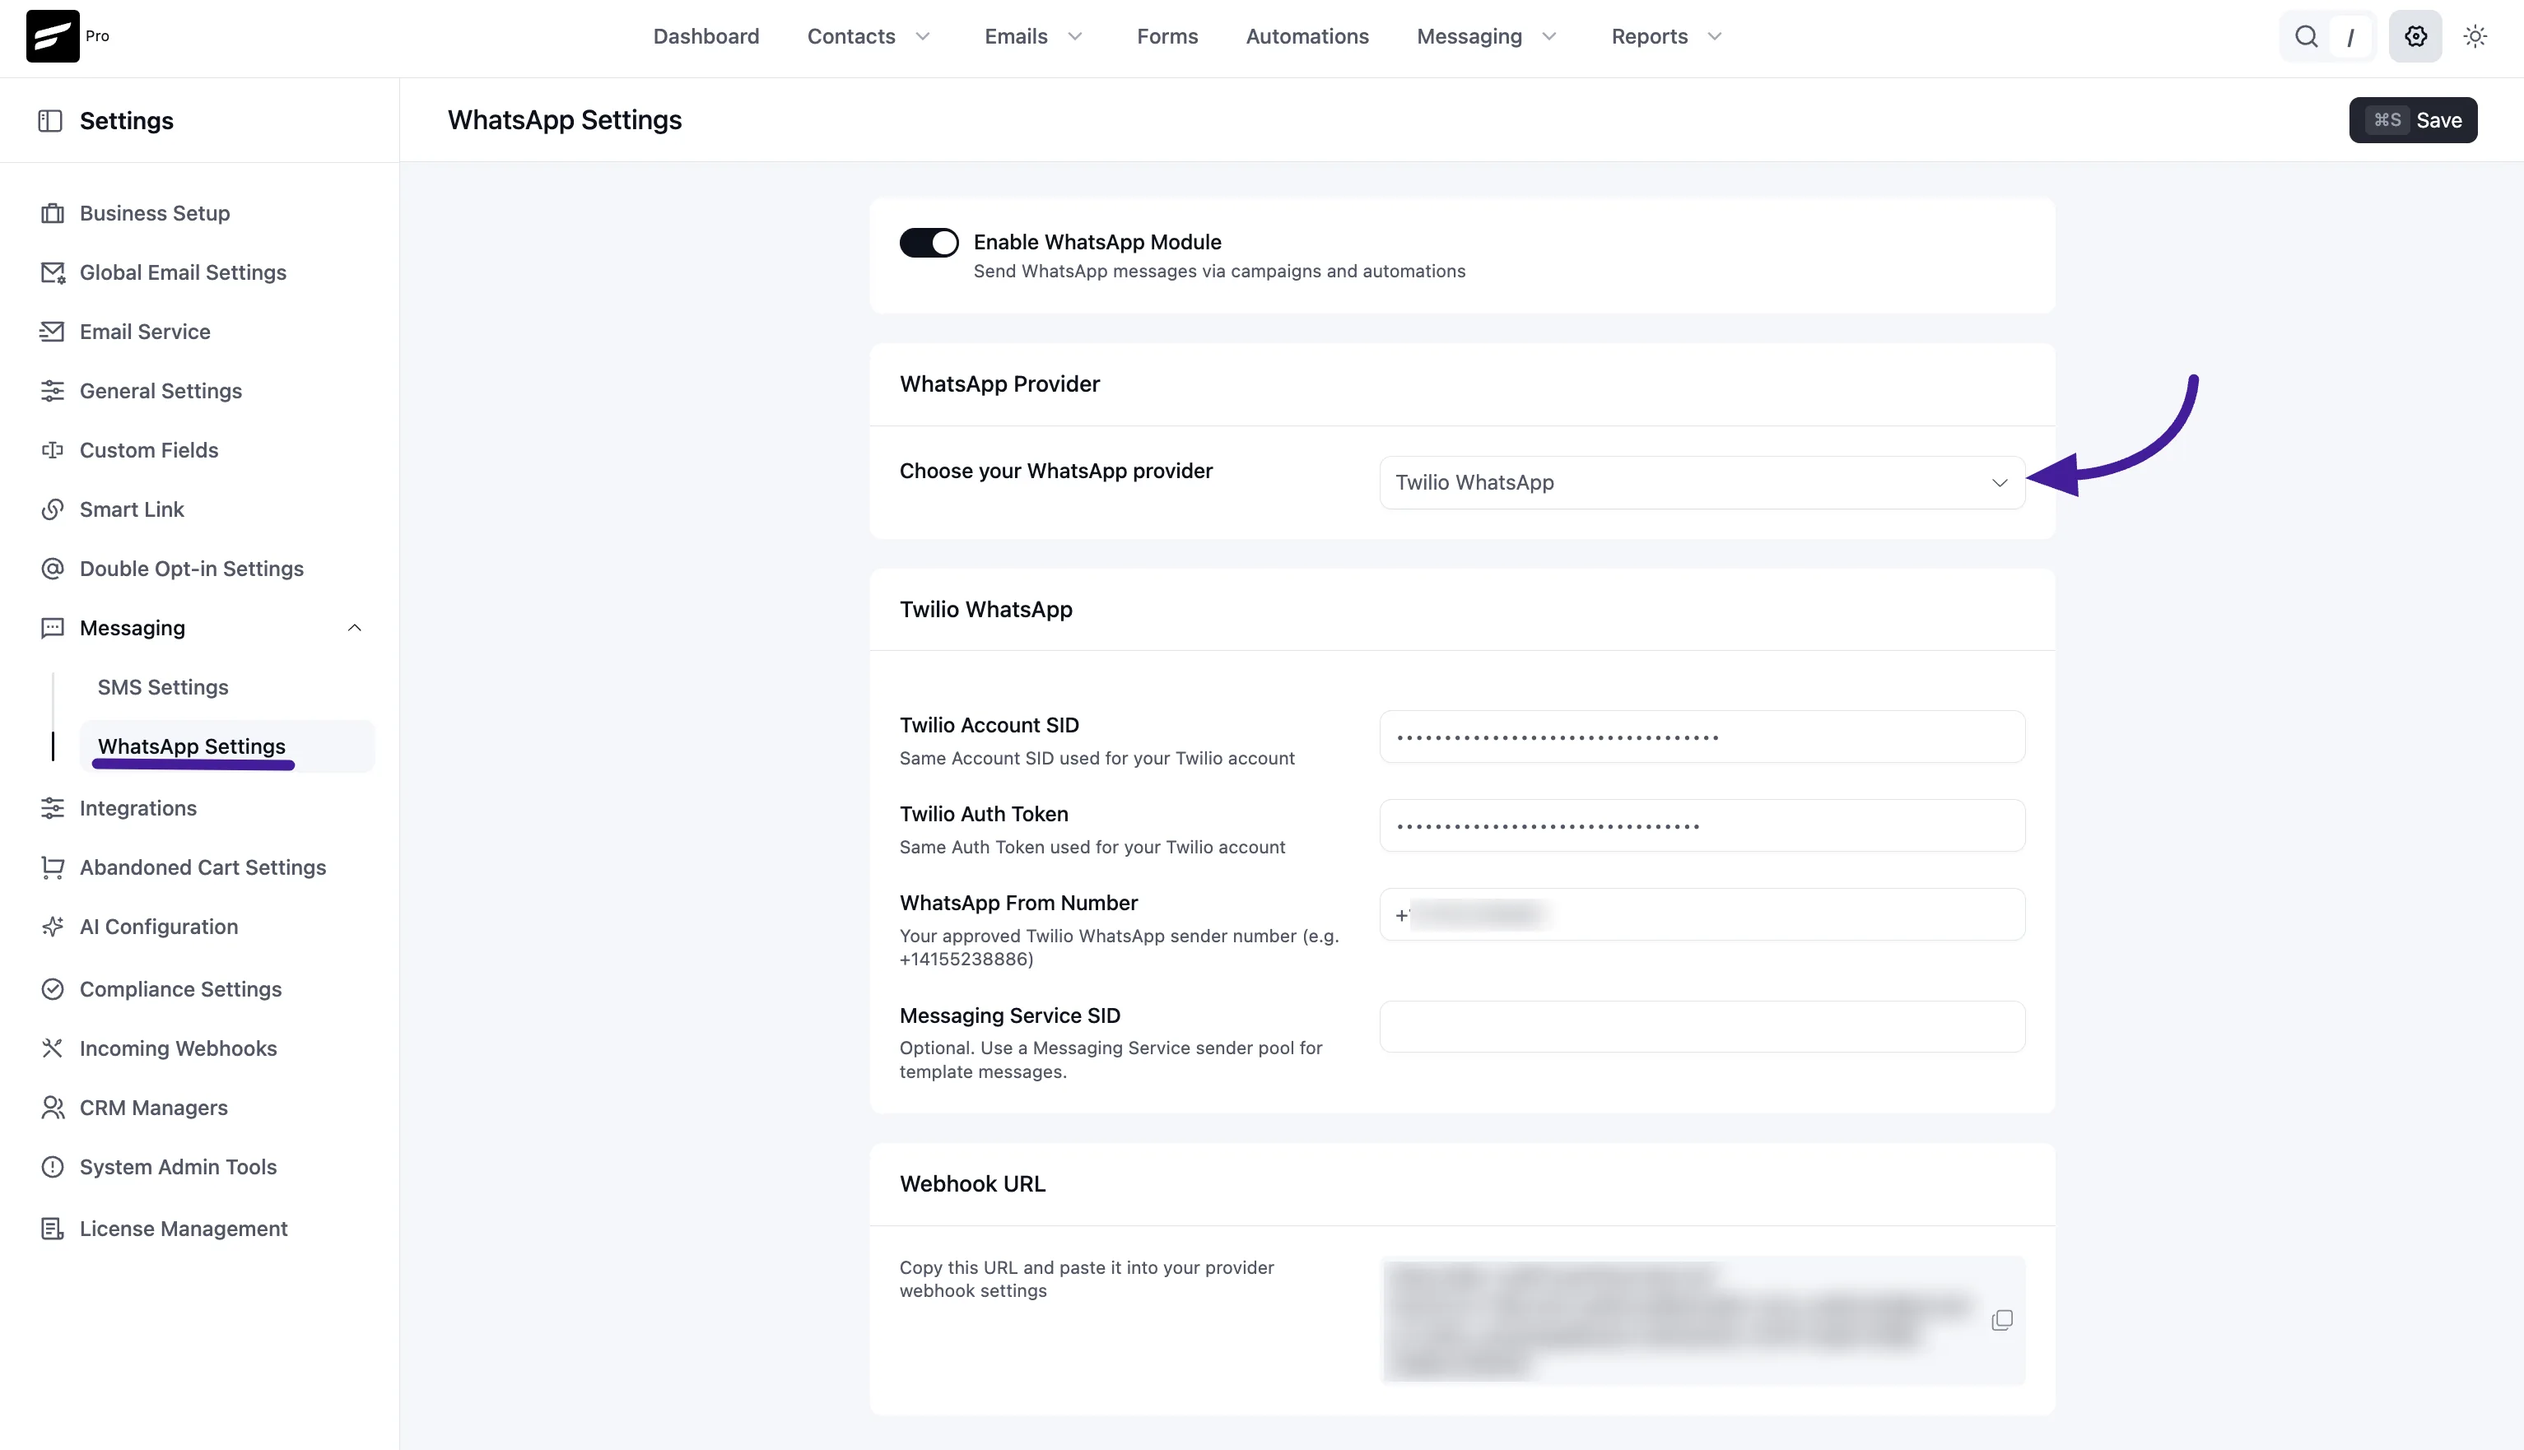
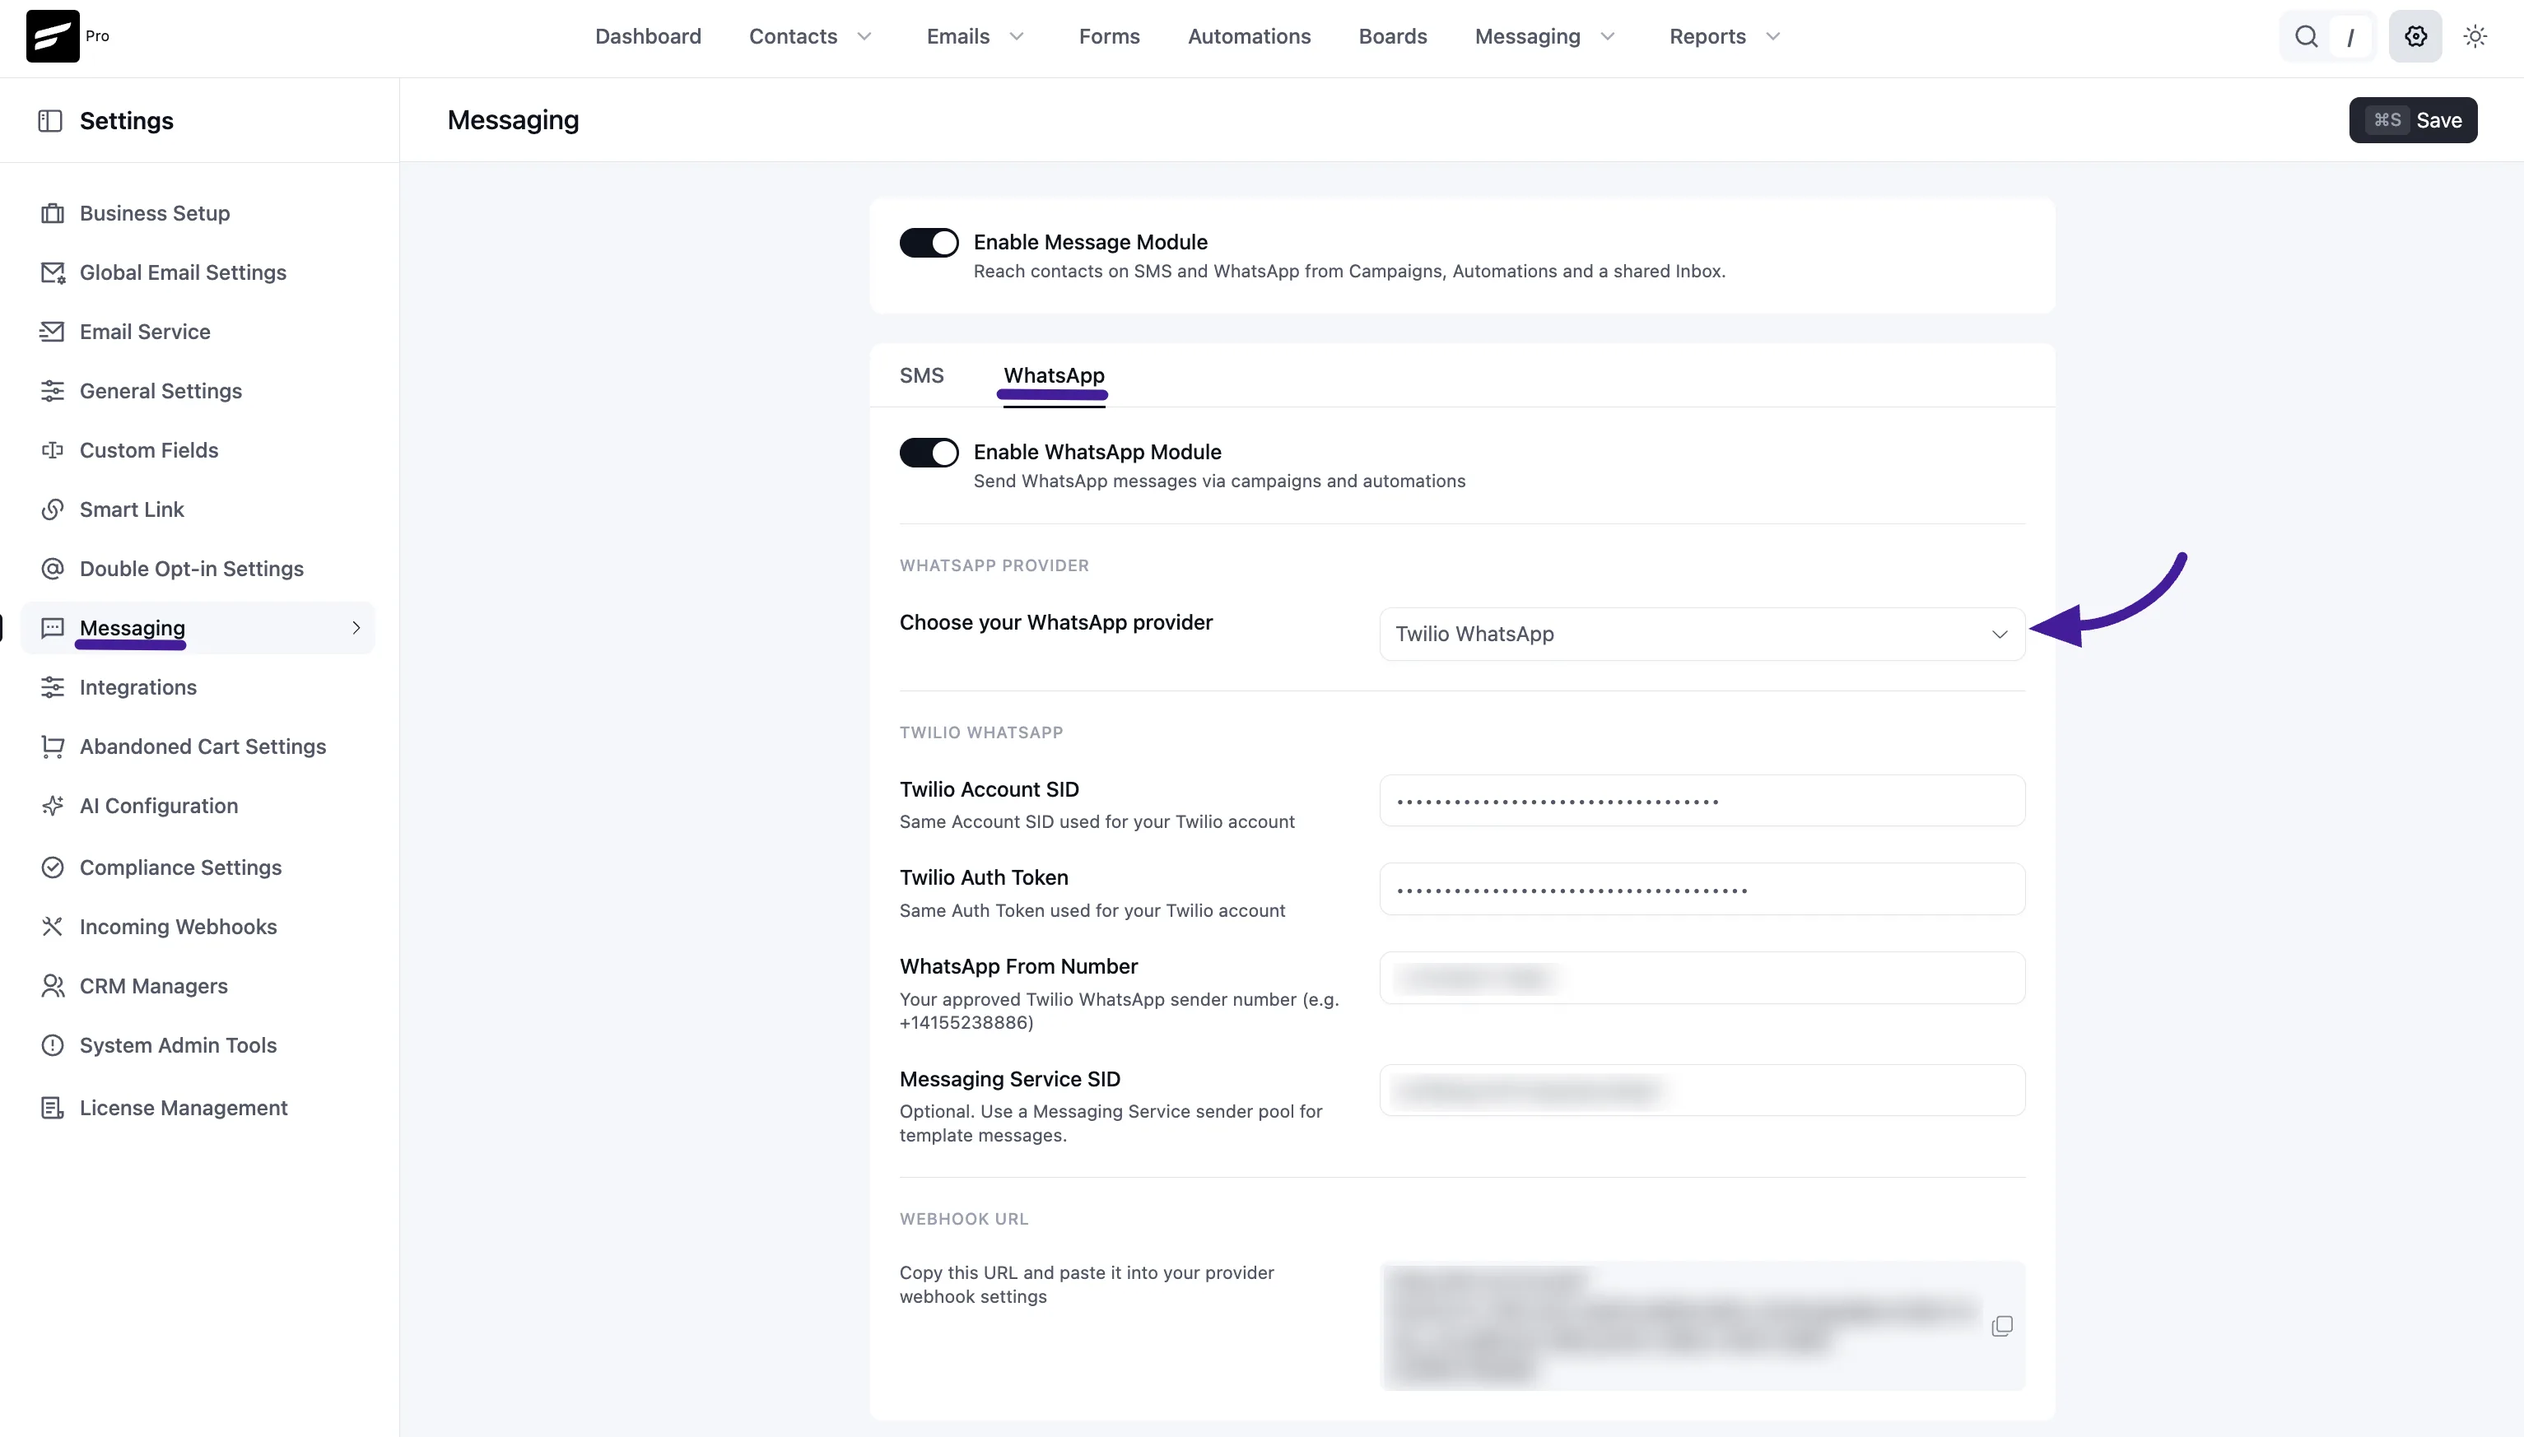
Clarify FluentCRM WhatsApp/Twilio settings
Update instructions to match the Messaging settings UI: change navigation to "FluentCRM → Settings → Messaging", instruct enabling the Message Module and opening the WhatsApp tab, and renumber steps accordingly. Update wording for the save step, webhook copy instruction, and the screenshot caption. Replace the WhatsApp Twilio settings screenshot (binary) to reflect the updated UI. These edits ensure the doc matches current FluentCRM menu and controls.

diff --git a/docs/whatsapp-module/whatsapp-twilio-integration.md b/docs/whatsapp-module/whatsapp-twilio-integration.md
@@ -44,21 +44,22 @@ For production, register your own WhatsApp sender in the Twilio Console under **
 
 ## Step 3: Enter the Credentials in FluentCRM
 
-In WordPress, go to **FluentCRM → Settings → Messaging → WhatsApp Settings**.
+In WordPress, go to **FluentCRM → Settings → Messaging**.
 
-1. Turn on **Enable WhatsApp Module**.
-2. Set **Choose your WhatsApp provider** to **Twilio WhatsApp**.
-3. Fill in the fields:
+1. Turn on **Enable Message Module**.
+2. Open the **WhatsApp** tab and turn on **Enable WhatsApp Module**.
+3. Set **Choose your WhatsApp provider** to **Twilio WhatsApp**.
+4. Fill in the fields:
    - **Twilio Account SID:** The Account SID from Step 1.
    - **Twilio Auth Token:** The Auth Token from Step 1.
    - **WhatsApp From Number:** Your approved sender number in full international format, such as `+14155238886`.
    - **Messaging Service SID:** Optional. Use a Messaging Service sender pool for template messages.
-4. Click **Save**.
+5. Click **Save**.
 
-![FluentCRM WhatsApp Settings with Twilio WhatsApp selected and credentials entered](/whatsapp-module/whatsapp-twilio-integration/twilio-settings-fluentcrm-3.webp)
+![FluentCRM Messaging settings on the WhatsApp tab with Twilio WhatsApp selected and credentials entered](/whatsapp-module/whatsapp-twilio-integration/twilio-settings-fluentcrm-3.webp)
 
 ## Step 4: Connect the Webhook
 
-After saving, copy the **Webhook URL** from the bottom of the WhatsApp Settings page and paste it into your Twilio WhatsApp sender's incoming message webhook field.
+After saving, copy the **Webhook URL** from the bottom of the WhatsApp tab and paste it into your Twilio WhatsApp sender's incoming message webhook field.
 
 Without it, messages still send, but delivery statuses and contact replies never make it back to FluentCRM.
